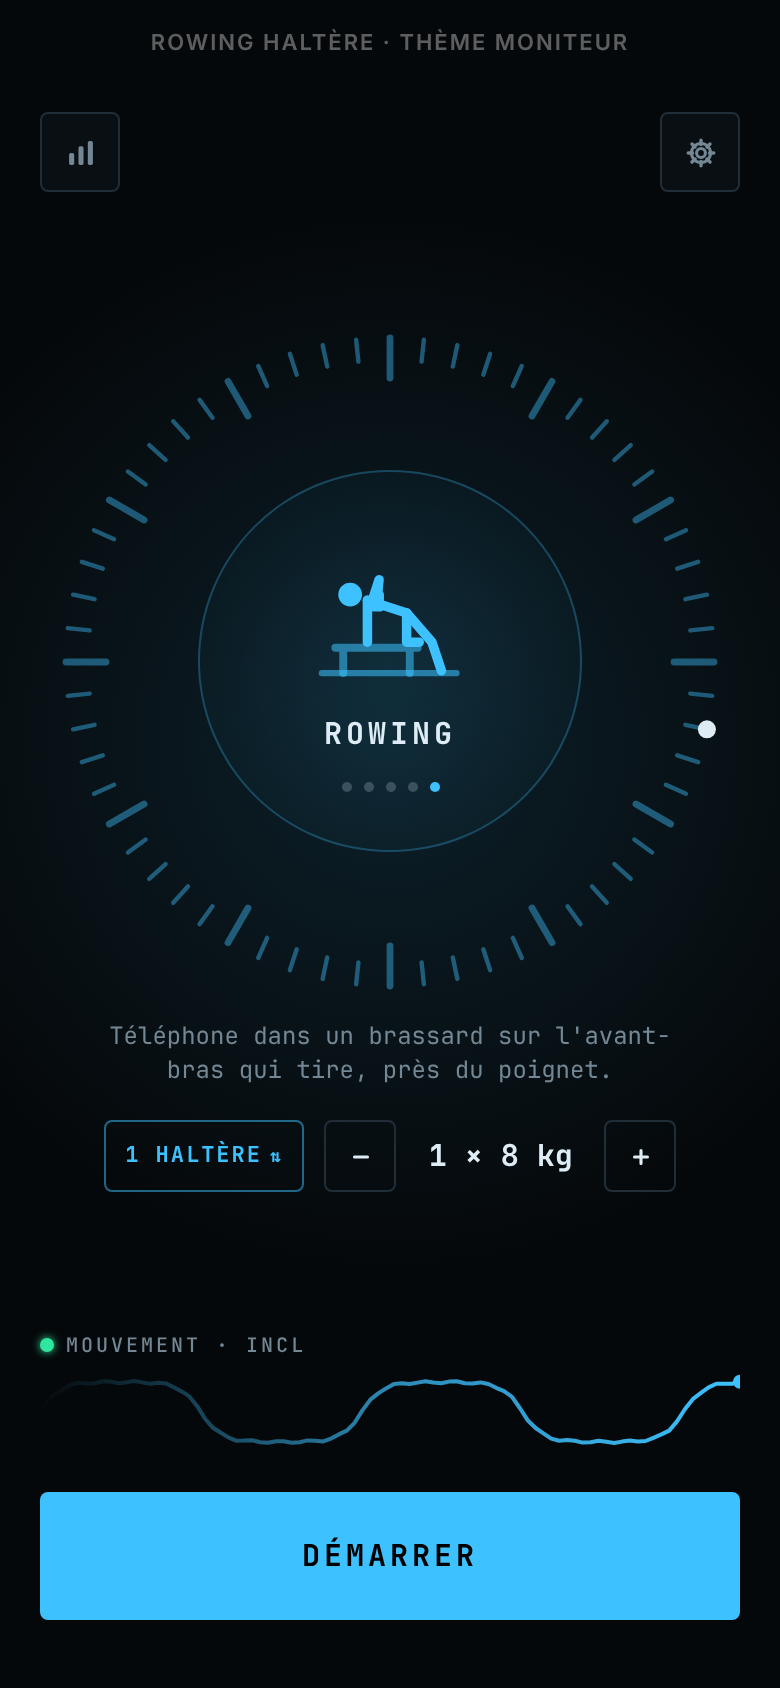
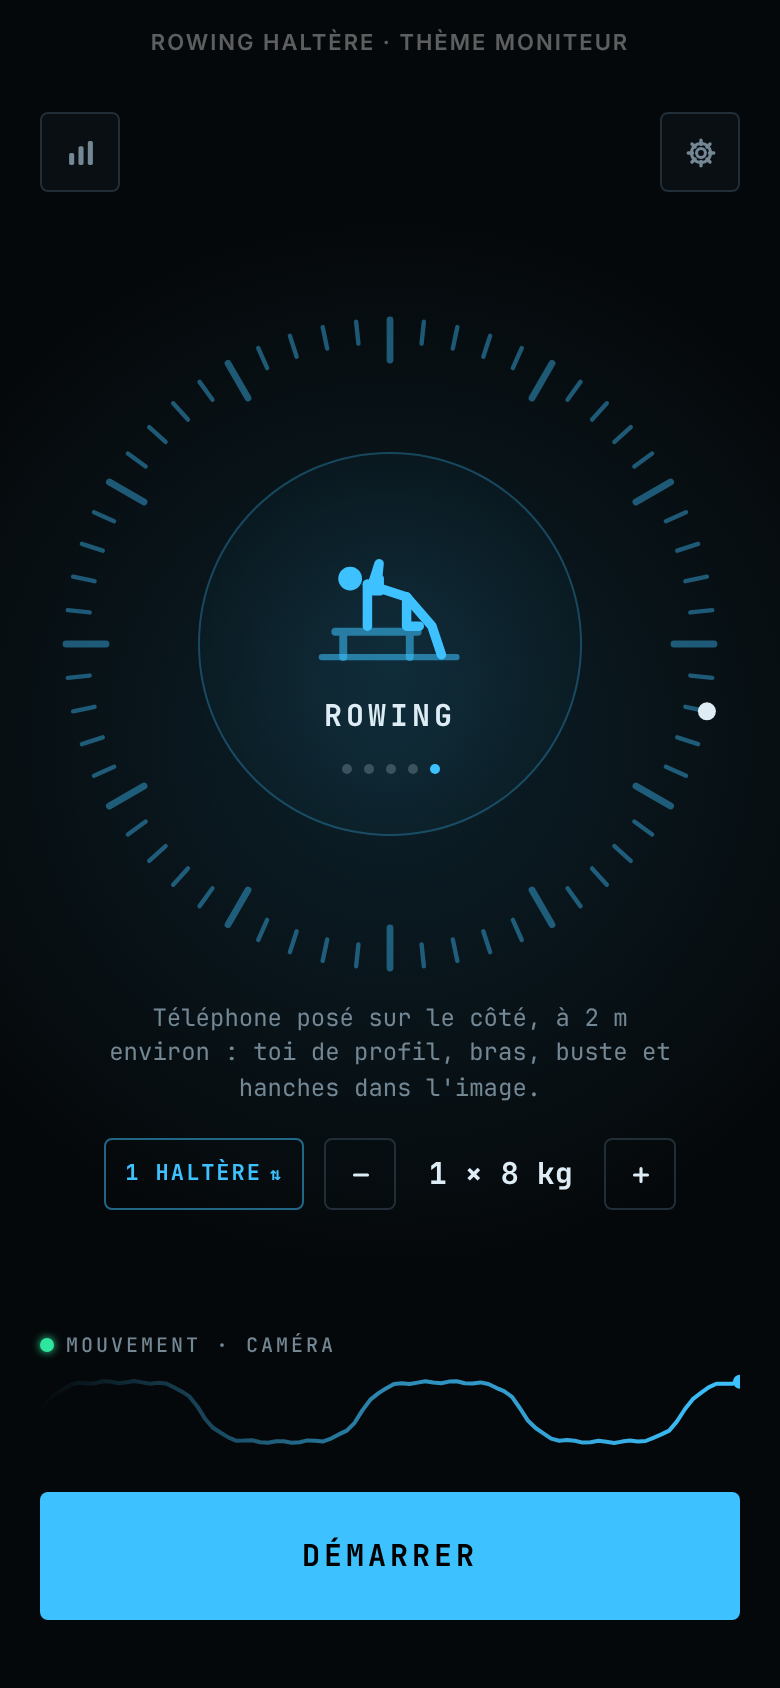
Brassard facultatif : biceps, développé et rowing comptés à la caméra par défaut
- Réglages › Mes exercices : « J'ai un brassard » (désactivé par défaut)
- Sans brassard : iPhone posé à 2 m, squelette et image (+ mouvement en secours)
- Avec brassard : capteurs de mouvement seuls, comme avant (sans caméra)
- Consigne sous le cadran et voyant selon le réglage ; caméra refusée : renvoi au réglage
- Capteurs figés pour la séance ; réglage noté dans les enregistrements

Claude-Session: https://claude.ai/code/session_01FagVhaB5BD4mhMTzHfe9fj

diff --git a/RepCounter/AutoCounter.swift b/RepCounter/AutoCounter.swift
@@ -394,6 +394,8 @@ final class AutoCounter {
     static let cyclesToLock = 3
 
     let exercise: Exercise
+    /// Capteurs écoutés, figés pour la séance (ils dépendent d'un réglage).
+    let sources: [SignalSource]
     private var trackers: [SignalSource: SignalTracker] = [:]
     private var leader: SignalSource?
     private var count = 0
@@ -408,6 +410,7 @@ final class AutoCounter {
 
     init(exercise: Exercise) {
         self.exercise = exercise
+        sources = exercise.sources
     }
 
     /// Rythme de la série : intervalle médian entre ses dernières répétitions comptées.
@@ -440,7 +443,7 @@ final class AutoCounter {
             for tracker in trackers.values { tracker.forgetHistory() }
         }
         var completed = Set<SignalSource>()
-        for (source, value) in frame.values where exercise.sources.contains(source) {
+        for (source, value) in frame.values where sources.contains(source) {
             let tracker = trackers[source] ?? SignalTracker(source: source, maxPeriod: exercise.maxPeriod)
             trackers[source] = tracker
             if tracker.process(value, at: t) { completed.insert(source) }
@@ -485,10 +488,10 @@ final class AutoCounter {
 
         let state: State = leader != nil ? .counting : (count == 0 ? .searching : .resting)
         let phase = leader.flatMap { trackers[$0]?.phase } ?? 0
-        let diagnostics = exercise.sources.compactMap { trackers[$0]?.diagnostic }
+        let diagnostics = sources.compactMap { trackers[$0]?.diagnostic }
         // Signal affiché : la source qui compte, sinon celle qui bouge le plus
         let shown = leader.flatMap { trackers[$0] }
-            ?? exercise.sources.compactMap { trackers[$0] }.max { $0.strength < $1.strength }
+            ?? sources.compactMap { trackers[$0] }.max { $0.strength < $1.strength }
         return Output(count: count, phase: phase, didCount: didCount, state: state, source: leader,
                       diagnostics: diagnostics,
                       liveValue: shown?.displayValue ?? 0.5, liveStrength: shown?.strength ?? 0,
@@ -501,7 +504,7 @@ final class AutoCounter {
 
     private func tentative(at t: Double) -> Int {
         guard leader == nil else { return 0 }
-        let chains = exercise.sources.compactMap { trackers[$0] }
+        let chains = sources.compactMap { trackers[$0] }
             .filter { $0.strength >= 1 }
             .map { $0.recentChain(at: t, after: lastCountTime) }
         return min(chains.max() ?? 0, Self.cyclesToLock - 1)
@@ -509,7 +512,7 @@ final class AutoCounter {
 
     private func bestRegularSource(among sources: Set<SignalSource>, at t: Double) -> SignalSource? {
         var best: (source: SignalSource, score: Float)?
-        for source in exercise.sources where sources.contains(source) {
+        for source in self.sources where sources.contains(source) {
             guard let score = trackers[source]?.regularity(at: t), score >= Tuning.minRegularity else { continue }
             // Scores arrondis : à 0,1 près, l'ordre de préférence départage
             if best == nil || (score * 10).rounded() > (best!.score * 10).rounded() {

diff --git a/Design/mockups/screens.html b/Design/mockups/screens.html
@@ -38,9 +38,9 @@ const EXERCISES = [
   ["lunge", "Fentes", "Téléphone tenu à la main ou contre la poitrine.", "ACCÉL"],
   ["pullup", "Tractions", "Téléphone dans une poche de pantalon ajustée.", "ACCÉL"],
   ["dips", "Dips", "Téléphone dans une poche de pantalon ajustée.", "ACCÉL"],
-  ["dumbbell", "Biceps", "Téléphone dans un brassard sur l'avant-bras qui travaille, près du poignet.", "INCL"],
-  ["row", "Rowing", "Téléphone dans un brassard sur l'avant-bras qui tire, près du poignet.", "INCL"],
-  ["press", "Développé", "Téléphone dans un brassard sur l'avant-bras qui pousse.", "ACCÉL"],
+  ["dumbbell", "Biceps", "Téléphone posé face à toi, à 2 m environ\u00A0: bras, buste et hanches dans l'image.", "CAMÉRA"],
+  ["row", "Rowing", "Téléphone posé sur le côté, à 2 m environ\u00A0: toi de profil, bras, buste et hanches dans l'image.", "CAMÉRA"],
+  ["press", "Développé", "Téléphone posé face à toi, à 2 m environ\u00A0: bras, buste et hanches dans l'image.", "CAMÉRA"],
   ["sparkles", "Autre", "Téléphone posé face à toi ou porté sur toi.", "MULTI"],
 ];
 
@@ -647,7 +647,11 @@ function render(t, s) {
     return `<div class="top"><span style="font-size:16px;font-weight:700;letter-spacing:3px">RÉGLAGES</span>${iconBtn("xmark", c.text)}</div>
       <div style="display:flex;flex-direction:column;gap:14px;margin-top:12px">
       ${panel("Mes exercices", `<div class="row" style="gap:8px;height:36px">${[0, 1, 2, 3, 4].map(e => icon(EXERCISES[e][0], c.primary, 22)).join("")}<span style="flex:1"></span>${icon("right", c.dim, 11)}</div>
-        ${note("Les exercices du cadran, dans l'ordre où ils défilent.")}`)}
+        ${note("Les exercices du cadran, dans l'ordre où ils défilent.")}
+        <div style="height:1px;background:${c.line};margin:4px 0"></div>
+        <div class="row" style="justify-content:space-between"><span style="font-size:14px;font-weight:700">J'AI UN BRASSARD</span>
+          <span style="width:51px;height:31px;border-radius:16px;background:${c.line};position:relative"><span style="position:absolute;top:2px;left:2px;width:27px;height:27px;border-radius:50%;background:#fff"></span></span></div>
+        ${note("Biceps, développé, rowing : iPhone posé à 2 m, la caméra compte ; rien n'est enregistré. Avec un brassard, le compte est encore plus précis.")}`)}
       ${panel("Profil", `<div class="row">${choice("Femme", false)}${choice("Homme", true)}</div>
         <div class="row" style="justify-content:space-between"><span style="font-size:11px;font-weight:600;letter-spacing:1px">ANNÉE DE NAISSANCE</span><span style="font-size:14px;color:${c.primary}">1988 ⌄</span></div>
         ${note("Facultatif, reste sur ton iPhone. Sert à situer ton niveau en pompes sur le barème de référence (score d'endurance).")}`)}

diff --git a/RepCounter/Exercise.swift b/RepCounter/Exercise.swift
@@ -50,8 +50,28 @@ enum Exercise: String, CaseIterable, Identifiable {
         }
     }
 
+    // MARK: Brassard
+
+    /// Biceps, développé, rowing : le téléphone se porte sur l'avant-bras (brassard) ou se pose
+    /// face à soi (caméra), selon que l'on a un brassard ou non (Réglages).
+    var isArmExercise: Bool { isWeighted }
+
+    /// « J'ai un brassard » (Réglages) : les exercices de bras se comptent au bras.
+    static let armbandKey = "equipment.armband"
+    static var hasArmband: Bool { UserDefaults.standard.bool(forKey: armbandKey) }
+
+    /// Exercice de bras compté à la caméra (pas de brassard déclaré).
+    var countsWithCamera: Bool { isArmExercise && !Self.hasArmband }
+
     /// Où mettre le téléphone.
-    var placement: String {
+    var placement: String { placement(armband: Self.hasArmband) }
+
+    func placement(armband: Bool) -> String {
+        if isArmExercise, !armband {
+            return self == .row
+                ? "Téléphone posé sur le côté, à 2 m environ\u{00A0}: toi de profil, bras, buste et hanches dans l'image."
+                : "Téléphone posé face à toi, à 2 m environ\u{00A0}: bras, buste et hanches dans l'image."
+        }
         switch self {
         case .auto: return "Téléphone posé face à toi ou porté sur toi ; l'app cherche le geste répété."
         case .pushups: return "Téléphone au sol, écran vers le haut, au niveau de ta tête."
@@ -68,6 +88,7 @@ enum Exercise: String, CaseIterable, Identifiable {
 
     /// Capteurs, en abrégé (accueil).
     var sensorTag: String {
+        if countsWithCamera { return "CAMÉRA" }
         switch self {
         case .auto: return "MULTI"
         case .pushups: return "CAM 3D"
@@ -80,6 +101,12 @@ enum Exercise: String, CaseIterable, Identifiable {
 
     /// Capteurs écoutés, par ordre de préférence.
     var sources: [SignalSource] {
+        // Exercice de bras sans brassard : la caméra voit le squelette (poignets, coudes) et
+        // l'image ; les capteurs de mouvement restent à l'écoute si le téléphone est malgré tout
+        // porté au bras. (La profondeur TrueDepth ne porte pas jusqu'à 2 m.)
+        if countsWithCamera {
+            return self == .press ? [.pose, .pixels, .vertical, .motion] : [.pose, .pixels, .motion, .rotation]
+        }
         switch self {
         case .auto: return [.depth, .motion, .vertical, .pose, .face, .pixels]
         case .pushups: return [.depth, .face, .pixels]

diff --git a/RepCounter/WorkoutView.swift b/RepCounter/WorkoutView.swift
@@ -10,6 +10,7 @@ struct WorkoutView: View {
     @Environment(\.modelContext) private var modelContext
     @StateObject private var model: WorkoutModel
     @AppStorage(SettingsView.analysisModeKey) private var analysisMode = false
+    @AppStorage(Exercise.armbandKey) private var hasArmband = false
     @State private var bump = false
     @State private var showsSettings = false
     @State private var showsHistory = false
@@ -352,7 +353,7 @@ struct WorkoutView: View {
         ZStack(alignment: .top) {
             placementLine(Self.longestPlacement)
                 .hidden()
-            placementLine(exercise.placement)
+            placementLine(exercise.placement(armband: hasArmband))
                 .id(exercise)
                 .transition(.opacity)
         }
@@ -368,7 +369,9 @@ struct WorkoutView: View {
             .fixedSize(horizontal: false, vertical: true)
     }
 
-    private static let longestPlacement = Exercise.allCases.map(\.placement).max { $0.count < $1.count } ?? ""
+    private static let longestPlacement = Exercise.allCases
+        .flatMap { [$0.placement(armband: false), $0.placement(armband: true)] }
+        .max { $0.count < $1.count } ?? ""
 
 
     /// Une ligne discrète sous le cadran : total de la séance (et régularité en mode analyse).
@@ -550,7 +553,10 @@ struct WorkoutView: View {
                 StatusLED(color: theme.alarm)
                 MonitorLabel("Accès caméra refusé", color: theme.alarm)
             }
-            Text("\(model.exercise.title) utilise la caméra pour te voir ; rien n'est enregistré. Glisse sur le cadran pour un exercice sans caméra.")
+            Text("\(model.exercise.title) utilise la caméra pour te voir ; rien n'est enregistré. "
+                 + (model.exercise.isArmExercise
+                    ? "Avec un brassard, active « J'ai un brassard » dans les Réglages."
+                    : "Glisse sur le cadran pour un exercice sans caméra."))
                 .font(theme.font(12))
                 .foregroundStyle(theme.dim)
                 .multilineTextAlignment(.center)

diff --git a/RepCounter/SettingsView.swift b/RepCounter/SettingsView.swift
@@ -14,6 +14,7 @@ struct SettingsView: View {
     @AppStorage(Profile.sexKey) private var sexID = ""
     @AppStorage(Profile.birthYearKey) private var birthYear = 0
     @AppStorage(Exercise.mineKey) private var mineValue = Exercise.defaultMineValue
+    @AppStorage(Exercise.armbandKey) private var hasArmband = false
 
     @State private var showsYearWheel = false
     @State private var showsExercises = false
@@ -61,6 +62,17 @@ struct SettingsView: View {
                             .buttonStyle(.plain)
                             .accessibilityLabel("Mes exercices : " + Exercise.decode(mineValue).map(\.title).joined(separator: ", "))
                             note("Les exercices du cadran, dans l'ordre où ils défilent.")
+                            Rectangle().fill(theme.line).frame(height: 1)
+                                .padding(.vertical, 4)
+                            Toggle(isOn: $hasArmband) {
+                                Text("J'AI UN BRASSARD")
+                                    .font(theme.font(14, .bold))
+                                    .foregroundStyle(theme.text)
+                            }
+                            .tint(theme.primary)
+                            note(hasArmband
+                                 ? "Biceps, développé, rowing : iPhone dans le brassard, sur l'avant-bras. Les capteurs de mouvement comptent, au plus près du geste."
+                                 : "Biceps, développé, rowing : iPhone posé à 2 m, la caméra compte ; rien n'est enregistré. Avec un brassard, le compte est encore plus précis.")
                         }
                     }
 

diff --git a/RepCounter/RepCounterApp.swift b/RepCounter/RepCounterApp.swift
@@ -25,6 +25,7 @@ struct RootView: View {
 
     @AppStorage(RootView.exerciseKey) private var exerciseID = Exercise.pushups.rawValue
     @AppStorage(Exercise.mineKey) private var mineValue = Exercise.defaultMineValue
+    @AppStorage(Exercise.armbandKey) private var hasArmband = false
     /// L'écran du nouvel exercice démarre sa séance dès son affichage.
     @State private var startsSession = false
 
@@ -42,7 +43,8 @@ struct RootView: View {
             startsSession = start
             exerciseID = selected.rawValue
         }
-            .id(exercise)
+            // Brassard déclaré ou retiré : l'écran d'un exercice de bras change de capteurs
+            .id(exercise.isArmExercise ? "\(exercise.rawValue).\(hasArmband)" : exercise.rawValue)
             .transition(.identity)
             .statusBarHidden()
     }

diff --git a/Design/mockups/render.js b/Design/mockups/render.js
@@ -29,7 +29,7 @@ const SCREENS = [
   ["9e-activite", { phase: "history", sub: "activity", caption: "Détail : activité" }],
   ["11-endurance-info", { phase: "info", caption: "(i) Endurance" }],
   ["10-seance", { phase: "session", caption: "Détail d'une séance" }],
-  ["8-reglages", { phase: "settings", audio: "sons", themes, height: 1110, caption: "Réglages (roue dentée)" }],
+  ["8-reglages", { phase: "settings", audio: "sons", themes, height: 1230, caption: "Réglages (roue dentée)" }],
   ["8b-mes-exercices", { phase: "exercises", caption: "Mes exercices" }],
 ];
 

diff --git a/RepCounter/SessionRecorder.swift b/RepCounter/SessionRecorder.swift
@@ -39,6 +39,7 @@ final class SessionRecorder {
             "version": 1,
             "exercise": exercise.rawValue,
             "sources": exercise.sources.map(\.rawValue),
+            "armband": Exercise.hasArmband,
             "device": Self.deviceModel(),
             "system": UIDevice.current.systemVersion,
             "app": Bundle.main.object(forInfoDictionaryKey: "CFBundleShortVersionString") as? String ?? "?",

diff --git a/RepCounter/WorkoutModel.swift b/RepCounter/WorkoutModel.swift
@@ -148,8 +148,8 @@ final class WorkoutModel: ObservableObject {
 
     init(exercise: Exercise) {
         self.exercise = exercise
-        sensors = SensorHub(sources: Set(exercise.sources))
         counter = AutoCounter(exercise: exercise)
+        sensors = SensorHub(sources: Set(counter.sources))
         sensors.onFrame = { [weak self] frame in self?.handle(frame) }
     }
 

diff --git a/README.md b/README.md
@@ -50,7 +50,7 @@ Réglages. Pas de défilement.
      liste des **séances**. Une séance s'ouvre sur son détail : séries, cadence, récupérations
      et rythme rep par rep ; un appui long la supprime.
 - **Réglages** (roue dentée, en veille et à la fin) : mes exercices (− / + et poignée ≡ pour
-  l'ordre ; il en reste toujours un), profil, retour sonore, thème, mode analyse.
+  l'ordre ; il en reste toujours un) et « J'ai un brassard », profil, retour sonore, thème, mode analyse.
 - **Mode analyse** : ajoute à la séance l'enregistrement ●, le diagnostic des capteurs et
   la régularité du signal. Désactivé par défaut.
 
@@ -147,12 +147,19 @@ Chaque exercice fixe les capteurs écoutés.
 | Pompes | au sol, écran vers le haut, au niveau de la tête | profondeur, visage, image |
 | Abdos | à plat contre la poitrine | gyroscope (vitesse de rotation) |
 | Squats | à la main ou contre la poitrine | accélération verticale, inclinaison |
-| Biceps | brassard sur l'avant-bras qui travaille, près du poignet | inclinaison, gyroscope |
-| Développé épaules | brassard sur l'avant-bras qui pousse | accélération verticale, inclinaison |
+| Biceps | posé face à toi à 2 m (sans brassard) · brassard sur l'avant-bras | squelette, image (+ mouvement) · inclinaison, gyroscope |
+| Développé épaules | posé face à toi à 2 m (sans brassard) · brassard sur l'avant-bras | squelette, image (+ mouvement) · accélération verticale, inclinaison |
 | Fentes | à la main ou contre la poitrine | accélération verticale, inclinaison |
 | Tractions | poche de pantalon ajustée | accélération verticale, inclinaison |
 | Dips | poche de pantalon ajustée | accélération verticale, inclinaison |
-| Rowing haltère | brassard sur l'avant-bras qui tire, près du poignet | inclinaison, gyroscope |
+| Rowing haltère | posé sur le côté à 2 m, toi de profil (sans brassard) · brassard sur l'avant-bras | squelette, image (+ mouvement) · inclinaison, gyroscope |
+
+**Brassard** (Réglages › Mes exercices › « J'ai un brassard », désactivé par défaut) : la plupart
+des gens n'en ont pas, alors biceps, développé et rowing se comptent par défaut à la caméra,
+iPhone posé (squelette Vision ; la profondeur TrueDepth ne porte pas à 2 m). Les capteurs de
+mouvement restent à l'écoute si l'iPhone est malgré tout porté au bras. Avec un brassard
+déclaré, ces exercices se comptent comme avant aux capteurs de mouvement seuls : plus précis,
+sans caméra (ni batterie ni autorisation). Le réglage change la consigne sous le cadran.
 
 Fentes, tractions, dips et rowing reprennent des profils déjà validés (squats pour les trois
 premiers, biceps pour le rowing) ; ils restent à vérifier sur des enregistrements réels.
